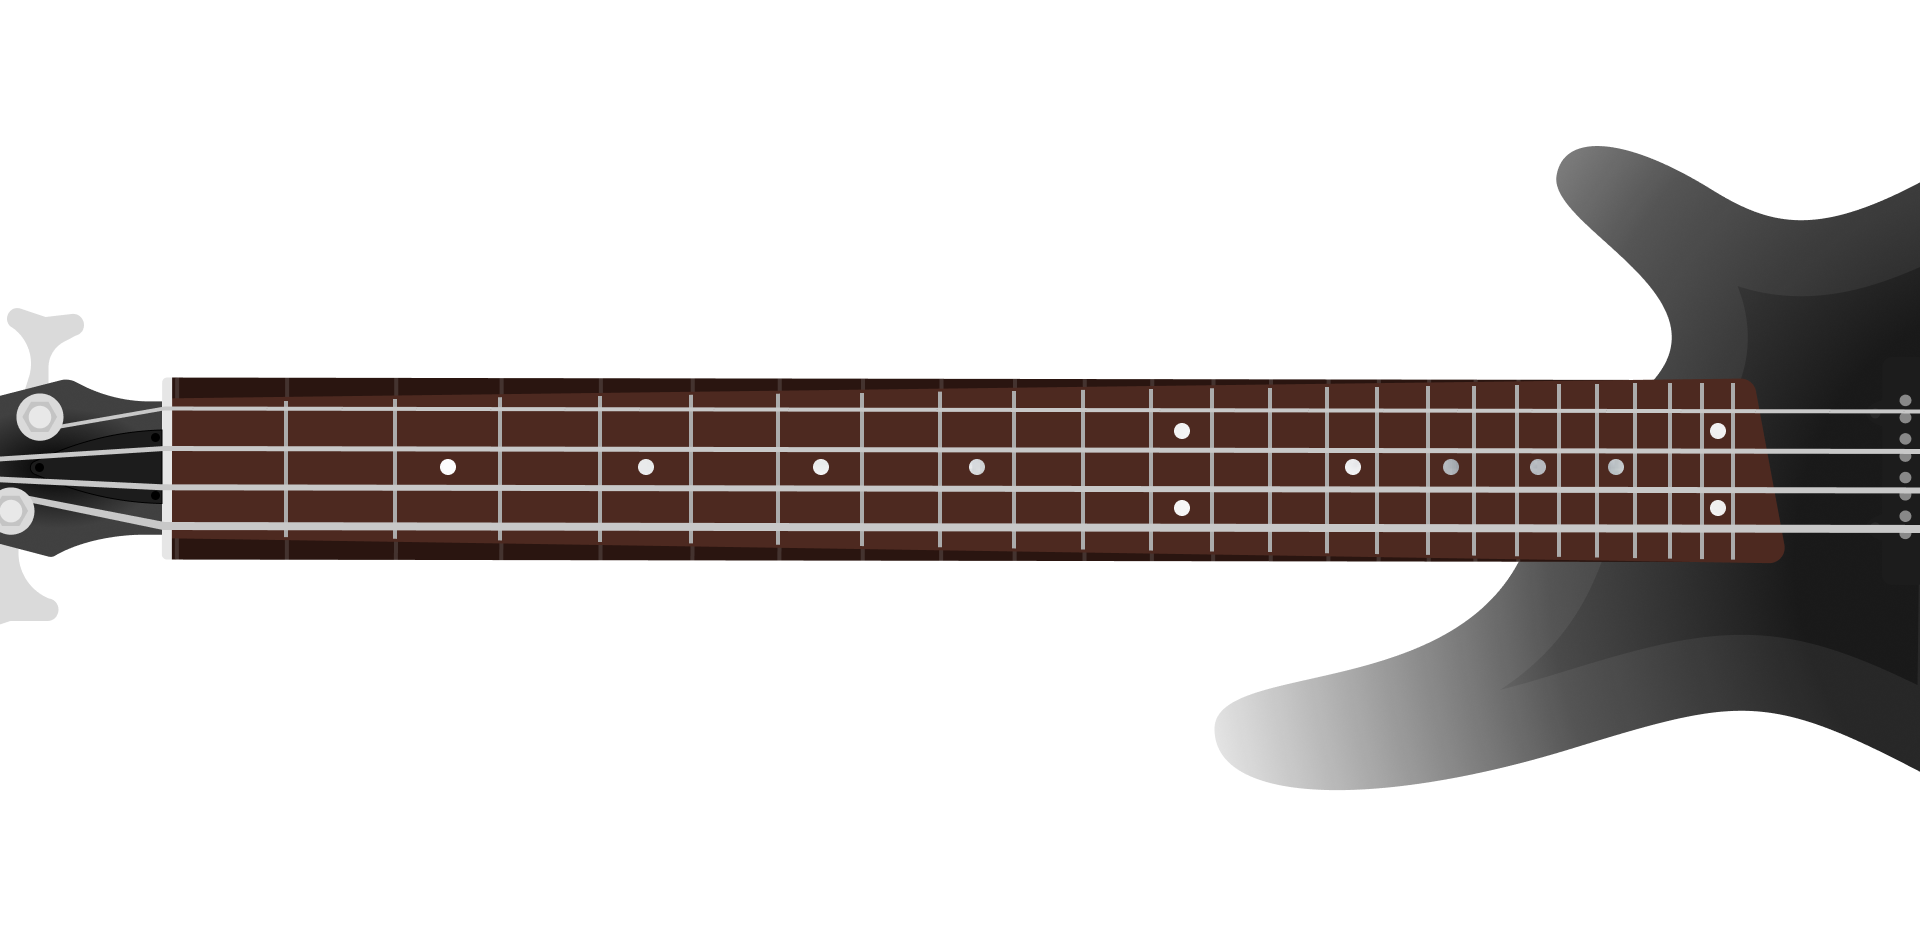
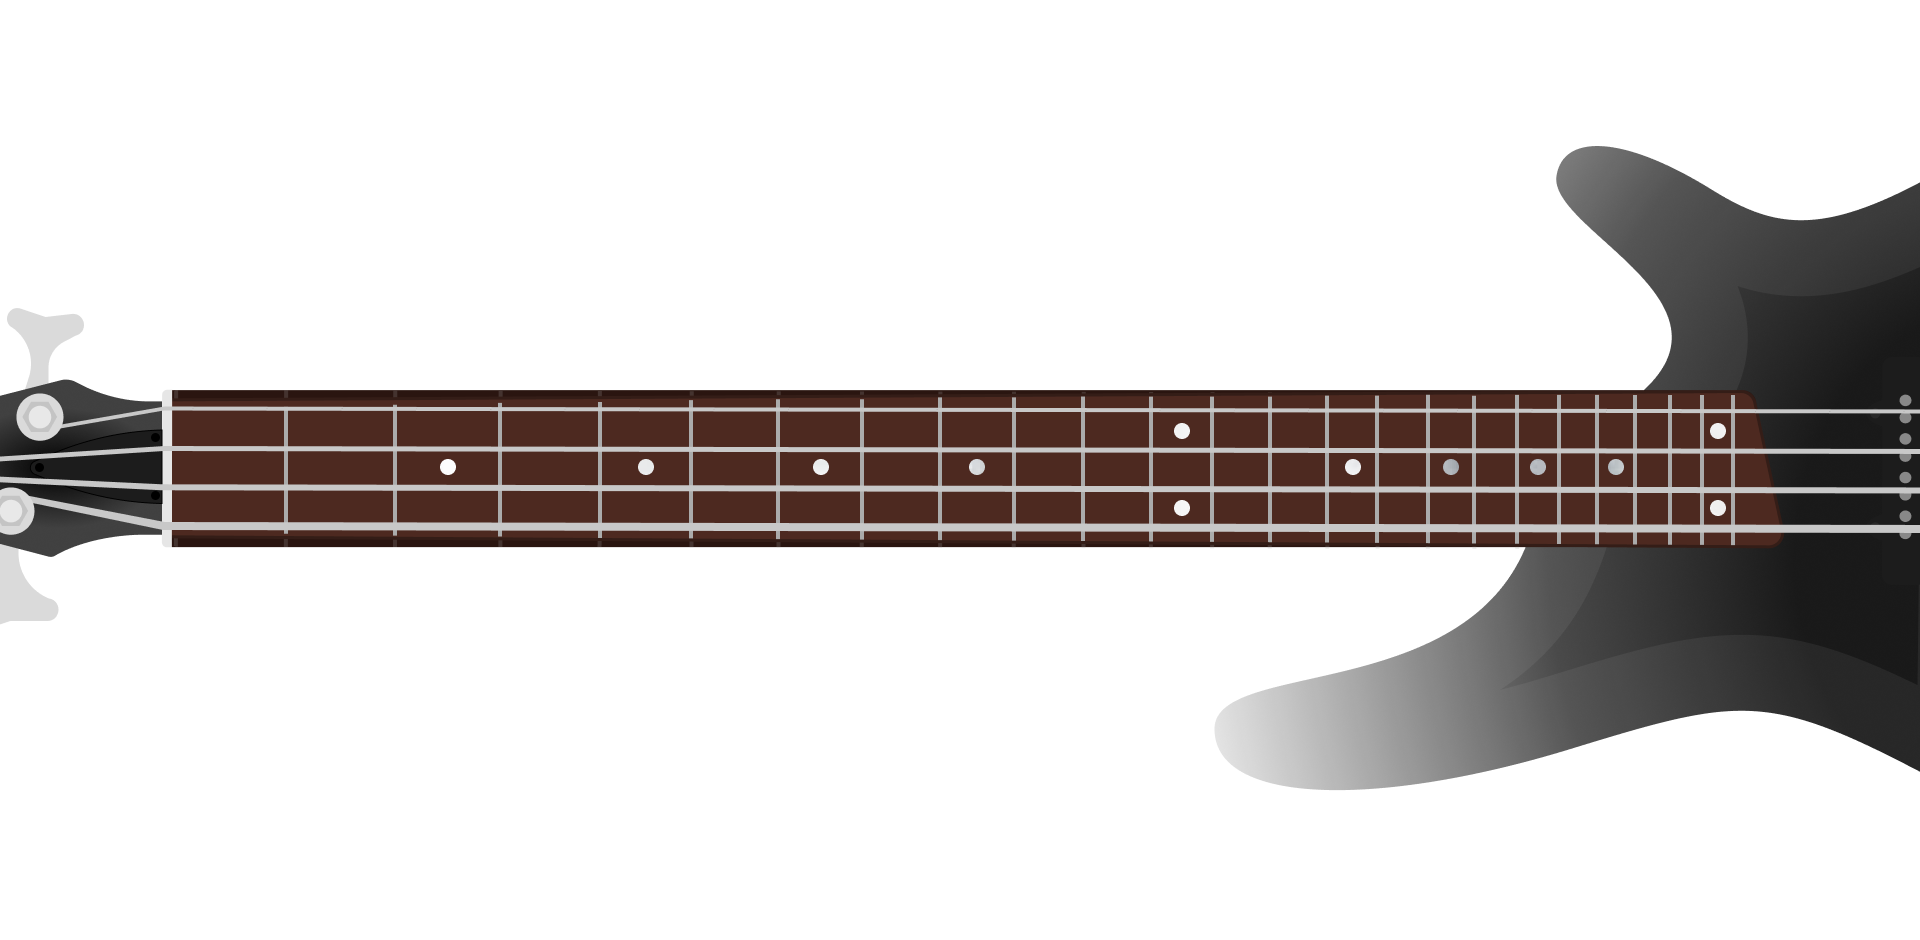
[HOTFIX] - Update image for Ibanez 4 string template. (#37)
* update image

* 2.2.1

* Update CHANGELOG.md

Changed region(s): [[0.0938, 0.5553, 0.9375, 0.617], [0.0625, 0.4011, 0.9375, 0.4319]]

diff --git a/CHANGELOG.md b/CHANGELOG.md
@@ -5,6 +5,9 @@ This file documents all notable changes made up to version 2.0.0 for each projec
 
 ## Unreleased
 
+## [2.2.1] - 2025-09-27
+- Update image for Ibanez 4 string template.
+
 ## [2.2.0] - 2025-09-27
 - Add Ibanez 4 string template and tunnings for 4 strings.
 
